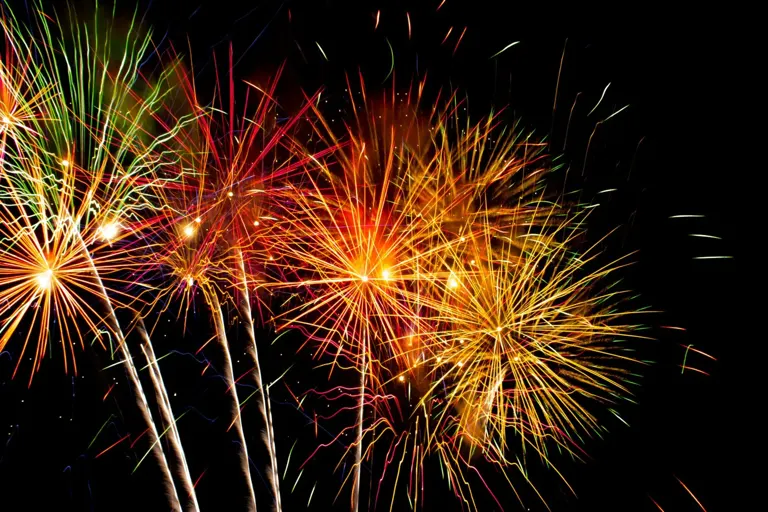
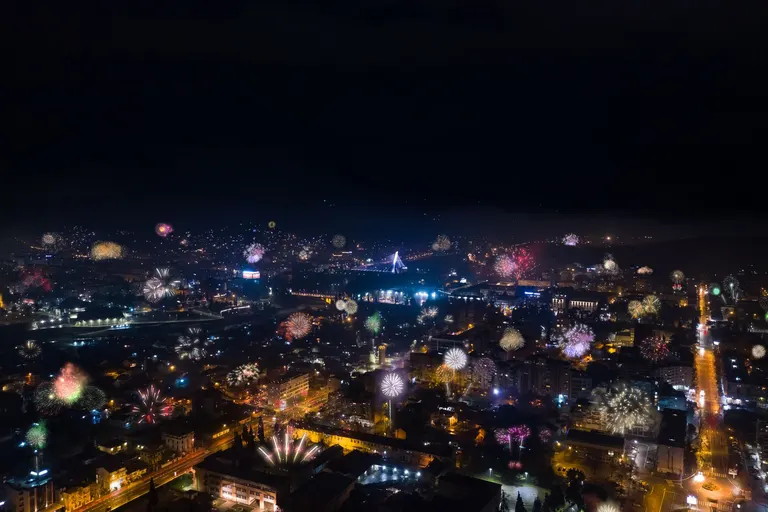
Christmas/NYE wave: 14 new posts + 5 rewrites (markets, Christmas, New Year's Eve), footer links, vlozit-clanky --update/offers_cat
- vlozit-clanky.py: --update rewrites existing posts in place (noindex=0, new image), offers_cat field, parse wrangler output from first '['
- footer 'Kam na výlet': Vánoční trhy, Kam na Vánoce, Kam na Silvestra
- Pexels featured images for the new posts

diff --git a/scripts/vlozit-clanky.py b/scripts/vlozit-clanky.py
@@ -1,9 +1,11 @@
 #!/usr/bin/env python3
 """Insert blog posts from JSON files into the production D1 (posts + slugs), with a Pexels featured image each.
 
-    python3 scripts/vlozit-clanky.py <dir with *.json> [--apply]
+    python3 scripts/vlozit-clanky.py <dir with *.json> [--apply] [--update]
 
-JSON: {slug, title, seo_title, seo_desc, excerpt, image_query, image_alt, content_html}. Without --apply only validates.
+JSON: {slug, title, seo_title, seo_desc, excerpt, image_query, image_alt, content_html[, offers_cat]}. Without --apply only validates.
+Existing slugs are skipped, unless --update: then the post is rewritten in place (new text, new Pexels image, noindex=0, modified now).
+Files starting with "_" are ignored.
 Checks: internal links must point to a live slug (slugs table or a slug in the same batch), no "sleva", seo_title <= 60 chars.
 Images go to public/wp-content/uploads/2026/11/<slug>(.webp|-768.webp) (deploy the web afterwards). PEXELS_API_KEY comes from
 credentials/.alkoholicky-credentials.env. Never prints secrets.
@@ -31,7 +33,7 @@ def d1(sql=None, file=None):
     a = ['npx', 'wrangler', 'd1', 'execute', 'DB', '--env', 'production', '--remote', '--json'] + (['--command', sql] if sql else ['--file', file])
     r = subprocess.run(a, cwd=ROOT, env=ev, capture_output=True, text=True)
     try:
-        return json.loads(r.stdout)
+        return json.loads(r.stdout[r.stdout.index('['):])
     except Exception:
         sys.exit('D1 failed: ' + r.stdout[-300:] + r.stderr[-300:])
 
@@ -57,14 +59,15 @@ def pexels(query, slug):
 def main():
     if len(sys.argv) < 2:
         sys.exit(__doc__)
-    files = sorted(Path(sys.argv[1]).glob('*.json'))
+    files = sorted(f for f in Path(sys.argv[1]).glob('*.json') if not f.name.startswith('_'))
     apply = '--apply' in sys.argv
+    update = '--update' in sys.argv
     posts = [json.loads(f.read_text()) for f in files]
     live = {r['slug'] for r in d1("SELECT slug FROM slugs")[0]['results']}
     batch = {p['slug'] for p in posts}
     taken = [p['slug'] for p in posts if p['slug'] in live]
     if taken:
-        print('slug already exists (will be skipped):', taken)
+        print('slug already exists (will be ' + ('updated' if update else 'skipped') + '):', taken)
     bad = 0
     for p in posts:
         h = p['content_html']
@@ -85,19 +88,25 @@ def main():
     mx = d1("SELECT max(id) m FROM posts")[0]['results'][0]['m']
     sql = []
     for p in posts:
+        oc = p.get('offers_cat', '')
         if p['slug'] in live:
+            if not update:
+                continue
+            w, h = pexels(p['image_query'], p['slug'])
+            img = f"/wp-content/uploads/2026/11/{p['slug']}.webp"; card = f"/wp-content/uploads/2026/11/{p['slug']}-768.webp"
+            sql.append(f"UPDATE posts SET title={esc(p['title'])}, content_html={esc(p['content_html'])}, excerpt={esc(p['excerpt'])}, modified_at=datetime('now'), image={esc(img)}, image_card={esc(card)}, image_alt={esc(p['image_alt'])}, image_w={w}, image_h={h}, noindex=0, seo_robots='', seo_title={esc(p['seo_title'])}, seo_desc={esc(p['seo_desc'])}, offers_cat={esc(oc)}, status='publish' WHERE type='post' AND slug={esc(p['slug'])};")
             continue
         mx += 1
         w, h = pexels(p['image_query'], p['slug'])
         img = f"/wp-content/uploads/2026/11/{p['slug']}.webp"; card = f"/wp-content/uploads/2026/11/{p['slug']}-768.webp"
         sql.append("INSERT INTO posts (id, type, slug, title, content_html, excerpt, published_at, modified_at, cat_id, image, image_card, image_alt, image_w, image_h, author, noindex, seo_title, seo_desc, seo_robots, canonical, offers_cat, ld_json, status) VALUES "
-                   f"({mx}, 'post', {esc(p['slug'])}, {esc(p['title'])}, {esc(p['content_html'])}, {esc(p['excerpt'])}, datetime('now'), datetime('now'), 431, {esc(img)}, {esc(card)}, {esc(p['image_alt'])}, {w}, {h}, 'Jan', 0, {esc(p['seo_title'])}, {esc(p['seo_desc'])}, '', '', '', '', 'publish');")
+                   f"({mx}, 'post', {esc(p['slug'])}, {esc(p['title'])}, {esc(p['content_html'])}, {esc(p['excerpt'])}, datetime('now'), datetime('now'), 431, {esc(img)}, {esc(card)}, {esc(p['image_alt'])}, {w}, {h}, 'Jan', 0, {esc(p['seo_title'])}, {esc(p['seo_desc'])}, '', '', {esc(oc)}, '', 'publish');")
         sql.append(f"INSERT INTO slugs (slug, kind, ref_id) VALUES ({esc(p['slug'])}, 'post', {mx});")
     if not sql:
         sys.exit('nothing to insert')
     f = Path('/tmp/kdw/insert-posts.sql'); f.write_text('\n'.join(sql))
     d1(file=str(f))
-    print('inserted', len(sql) // 2, 'posts')
+    print('done:', sum(x.startswith('INSERT INTO posts') for x in sql), 'inserted,', sum(x.startswith('UPDATE') for x in sql), 'updated')
 
 
 main()
